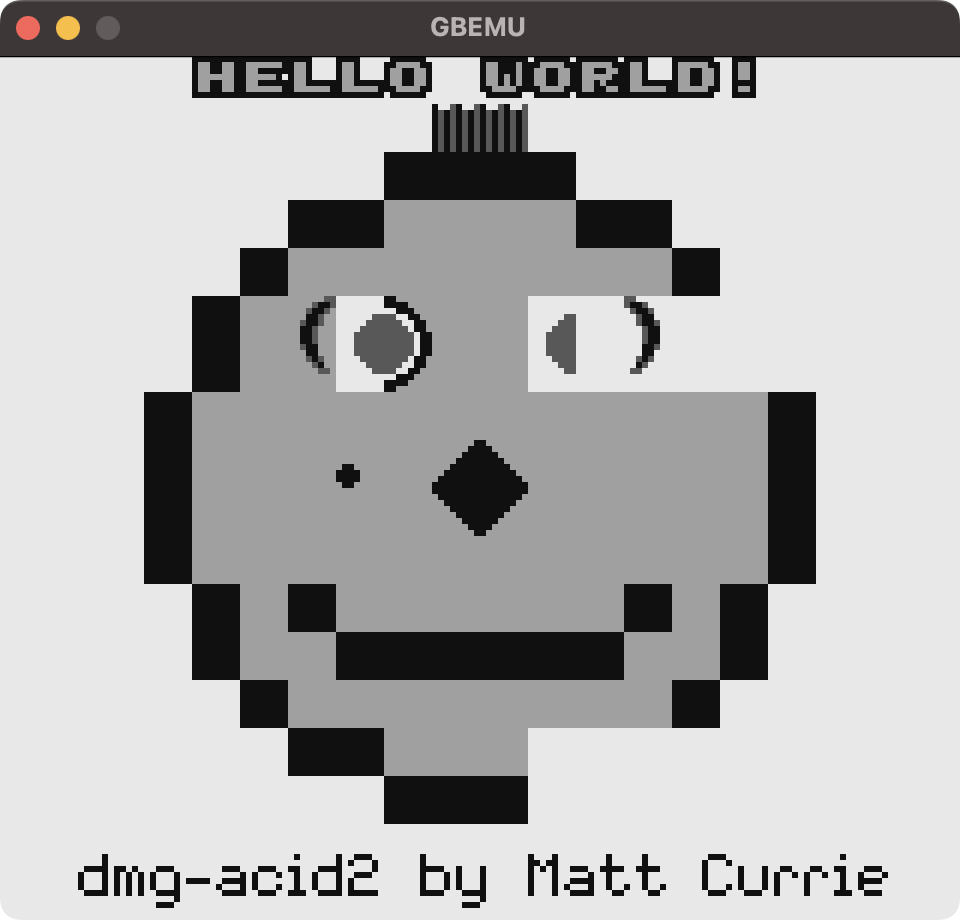
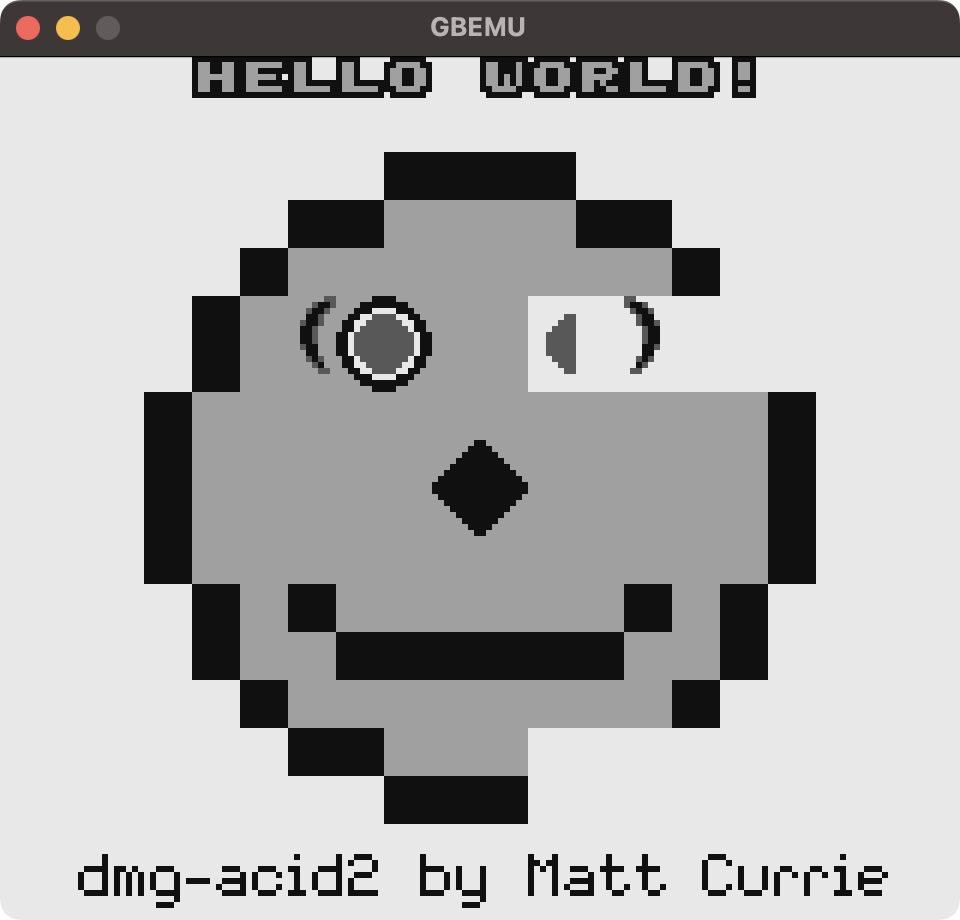
ObjectのPriorityを実装

Changed region(s): [[0.4375, 0.0913, 0.5625, 0.1826], [0.3438, 0.3043, 0.4062, 0.4261], [0.3438, 0.487, 0.375, 0.5478]]

diff --git a/src/ppu.cc b/src/ppu.cc
@@ -1,5 +1,6 @@
 #include "ppu.h"
 
+#include <algorithm>
 #include <cstdint>
 #include <vector>
 
@@ -48,47 +49,49 @@ void Ppu::WriteOam8(std::uint16_t address, std::uint8_t value) {
   }
 }
 
-void Ppu::ScanSingleObject() {
-  // 描画可能なオブジェクトの最大数に達しているなら何もせずサイクルを消費
-  if (objects_on_scan_line_.size() == kMaxNumOfObjectsOnScanline) {
+void Ppu::ScanSingleOamEntry() {
+  // 描画可能なオブジェクトの最大数に達しているなら何もしない
+  if (scanned_oam_entries_.size() == kMaxNumOfObjectsOnScanline) {
     return;
   }
 
-  // OAMからオブジェクトを取得
+  // OAMからエントリを取得
   unsigned elapsed_cycles_in_oam_scan =
       elapsed_cycles_in_frame_ % kScanlineDuration;
   ASSERT(elapsed_cycles_in_oam_scan < kOamScanDuration,
          "This function must be called within OAM Scan.");
-  int object_index = elapsed_cycles_in_oam_scan / 2;
-  Object object;
-  object.y_pos = oam_.at(object_index * 4);
-  object.x_pos = oam_.at(object_index * 4 + 1);
-  object.tile_index = oam_.at(object_index * 4 + 2);
-  object.attributes = oam_.at(object_index * 4 + 3);
+  int entry_index = elapsed_cycles_in_oam_scan / 2;
+  OamEntry entry;
+  entry.y_pos = oam_.at(entry_index * 4);
+  entry.x_pos = oam_.at(entry_index * 4 + 1);
+  entry.tile_index = oam_.at(entry_index * 4 + 2);
+  entry.attributes = oam_.at(entry_index * 4 + 3);
 
-  // オブジェクトがスキャンライン上にあるならバッファに追加
-  if (object.IsOnScanline(ly_, lcdc_.GetCurrentObjectSize())) {
-    objects_on_scan_line_.push(object);
+  // エントリが表すオブジェクトがスキャンライン上にあるならバッファに追加
+  if (entry.IsOnScanline(ly_, lcdc_.GetCurrentObjectSize())) {
+    scanned_oam_entries_.push_back(entry);
   }
 }
 
 void Ppu::WriteCurrentLineToBuffer() {
+  std::array<unsigned, lcd::kWidth> background_color_ids{};
   if (lcdc_.IsBackgroundEnabled()) {
-    WriteBackgroundOnCurrentLine();
+    WriteBackgroundOnCurrentLine(background_color_ids);
   }
 
+  std::array<unsigned, lcd::kWidth> window_color_ids{};
   if (lcdc_.IsWindowEnabled()) {
-    WriteWindowOnCurrentLine();
+    // WriteWindowOnCurrentLine(window_color_ids);
   }
 
+  std::array<unsigned, lcd::kWidth> objects_color_ids{};
+  std::array<const OamEntry*, lcd::kWidth> oam_entries{};
   if (lcdc_.IsObjectEnabled()) {
-    WriteObjectsOnCurrentLine();
-  } else {
-    // スキャンしたオブジェクトをクリア
-    while (!objects_on_scan_line_.empty()) {
-      objects_on_scan_line_.pop();
-    }
+    WriteObjectsOnCurrentLine(objects_color_ids, oam_entries);
   }
+
+  MergeLinesOfEachLayer(background_color_ids, window_color_ids,
+                        objects_color_ids, oam_entries, buffer_.at(ly_));
 }
 
 // サイクル数はM-cycle単位（＝4の倍数のT-cycle）でしか渡されず、
@@ -114,7 +117,7 @@ unsigned Ppu::Step() {
   // モード固有の処理を行い、消費したサイクル数を求める
   switch (ppu_mode_) {
     case PpuMode::kOamScan:
-      ScanSingleObject();
+      ScanSingleOamEntry();
       elapsed = 2;
       break;
     case PpuMode::kDrawingPixels: {
@@ -122,6 +125,7 @@ unsigned Ppu::Step() {
           elapsed_cycles_in_frame_ % kScanlineDuration;
       if (elapsed_cycles_in_line == kOamScanDuration) {
         WriteCurrentLineToBuffer();
+        scanned_oam_entries_.clear();
       }
       elapsed = 1;
       break;
@@ -235,10 +239,41 @@ std::array<unsigned, Ppu::kTileSize> Ppu::DecodeTileRow(
   return result;
 }
 
-void Ppu::WriteBackgroundOnCurrentLine() {
-  // 書き込み先のバッファの行
-  GbLcdPixelRow& line = buffer_.at(ly_);
+void Ppu::MergeLinesOfEachLayer(
+    const std::array<unsigned, lcd::kWidth>& background_color_ids,
+    const std::array<unsigned, lcd::kWidth>& window_color_ids,
+    const std::array<unsigned, lcd::kWidth>& object_color_ids,
+    const std::array<const OamEntry*, lcd::kWidth>& oam_entries,
+    GbLcdPixelRow& merged) {
+  for (int i = 0; i < lcd::kWidth; i++) {
+    lcd::GbLcdColor& dst = merged.at(i);
+    dst = lcd::GbLcdColor::kWhite;
 
+    // Backgroundの描画
+    if (lcdc_.IsBackgroundEnabled()) {
+      dst = GetGbLcdColor(background_color_ids[i], bgp_);
+    }
+
+    // Objectの描画
+    if (lcdc_.IsObjectEnabled() && oam_entries[i] != nullptr &&
+        object_color_ids[i] != 0) {
+      const OamEntry& entry = *oam_entries[i];
+      bool is_front = entry.GetPriority() == OamEntry::Priority::kFront;
+      bool background_overlay =
+          lcdc_.IsBackgroundEnabled() && background_color_ids[i] != 0;
+      bool window_overlay = lcdc_.IsWindowEnabled() && window_color_ids[i] != 0;
+      if (is_front || (!background_overlay && !window_overlay)) {
+        OamEntry::GbPalette palette = entry.GetGbPalette();
+        std::uint8_t obp =
+            palette == OamEntry::GbPalette::kObp0 ? obp0_ : obp1_;
+        dst = GetGbLcdColor(object_color_ids[i], obp);
+      }
+    }
+  }
+}
+
+void Ppu::WriteBackgroundOnCurrentLine(
+    std::array<unsigned, lcd::kWidth>& color_ids) const {
   // スキャンラインと交差するタイルのうち左端のものを取得する
   int tile_pos_y = (scy_ + ly_) / kTileSize;
   int tile_pos_x = scx_ / kTileSize;
@@ -249,8 +284,8 @@ void Ppu::WriteBackgroundOnCurrentLine() {
   const std::uint8_t* tile =
       GetTileFromTileMap(tile_pos_x, tile_pos_y, area, mode);
 
-  // 左から右にタイルマップを移動しながら、スキャンラインと交差するタイルの行を
-  // バッファに書き込む
+  // 左から右にタイルマップを移動しながら、
+  // スキャンラインと交差するタイルの行を配列に書き込む
   int pos_in_line = 0;
   for (int i = 0; i < 21; i++) {
     int col_start = i == 0 ? tile_col_offset : 0;
@@ -258,59 +293,56 @@ void Ppu::WriteBackgroundOnCurrentLine() {
     std::array<unsigned, kTileSize> tile_row =
         DecodeTileRow(tile, tile_row_offset);
     for (int j = col_start; j < col_end; j++) {
-      lcd::GbLcdColor color = GetGbLcdColor(tile_row[j], bgp_);
-      line.at(pos_in_line++) = color;
+      color_ids.at(pos_in_line++) = tile_row[j];
     }
     tile_pos_x = (tile_pos_x + 1) % 32;
     tile = GetTileFromTileMap(tile_pos_x, tile_pos_y, area, mode);
   }
 }
 
-void Ppu::WriteWindowOnCurrentLine() {
-  // do something
-}
-
-void Ppu::WriteObjectsOnCurrentLine() {
-  while (!objects_on_scan_line_.empty()) {
-    const Object& object = objects_on_scan_line_.top();
-    WriteSingleObjectOnCurrentLine(object);
-    objects_on_scan_line_.pop();
+void Ppu::WriteObjectsOnCurrentLine(
+    std::array<unsigned, lcd::kWidth>& color_ids,
+    std::array<const OamEntry*, lcd::kWidth>& oam_entries) {
+  // X座標の小さいものを前面に描画するために、X座標の大きいものを先に描画する
+  std::stable_sort(scanned_oam_entries_.begin(), scanned_oam_entries_.end());
+  for (auto i = scanned_oam_entries_.rbegin(), e = scanned_oam_entries_.rend();
+       i != e; i++) {
+    WriteSingleObjectOnCurrentLine(*i, color_ids, oam_entries);
   }
 }
 
-void Ppu::WriteSingleObjectOnCurrentLine(const Object& object) {
-  GbLcdPixelRow& line = buffer_.at(ly_);
-  Object::GbPalette palette = object.GetGbPalette();
-  std::uint8_t obp = palette == Object::GbPalette::kObp0 ? obp0_ : obp1_;
+void Ppu::WriteSingleObjectOnCurrentLine(
+    const OamEntry& entry, std::array<unsigned, lcd::kWidth>& color_ids,
+    std::array<const OamEntry*, lcd::kWidth>& oam_entries) const {
   // TODO: Priorityの実装
 
   // 描画すべき行データを取得
-  int lcd_x = object.x_pos - 8;
-  int lcd_y = object.y_pos - 16;
+  int lcd_x = entry.x_pos - 8;
+  int lcd_y = entry.y_pos - 16;
   int lcd_y_offset = ly_ - lcd_y;
   int tile_row_offset =
-      object.IsYFlip() ? (lcdc_.GetCurrentObjectHeight() - 1 - lcd_y_offset)
-                       : lcd_y_offset;
+      entry.IsYFlip() ? (lcdc_.GetCurrentObjectHeight() - 1 - lcd_y_offset)
+                      : lcd_y_offset;
   int upper_tile_index = lcdc_.GetCurrentObjectSize() == ObjectSize::kDouble
-                             ? object.tile_index & 0xFE
-                             : object.tile_index;
+                             ? entry.tile_index & 0xFE
+                             : entry.tile_index;
   int tile_data_address = upper_tile_index * 16;
-  std::uint8_t* tile = &vram_.at(tile_data_address);
+  const std::uint8_t* tile = &vram_.at(tile_data_address);
   std::array<unsigned, kTileSize> tile_row =
       DecodeTileRow(tile, tile_row_offset);
   for (int i = 0; i < 8; i++) {
     // x-flipしているなら右端から、していないなら左端から描画する
-    unsigned color_id = object.IsXFlip() ? tile_row[7 - i] : tile_row[i];
+    unsigned color_id = entry.IsXFlip() ? tile_row[7 - i] : tile_row[i];
     if (color_id == 0) {
       continue;
     }
-    lcd::GbLcdColor color = GetGbLcdColor(color_id, obp);
+    color_ids.at(lcd_x + i) = color_id;
+    oam_entries.at(lcd_x + i) = &entry;
     // TODO: object.x_pos < 8 のケースの対処
-    line.at(lcd_x + i) = color;
   }
 }
 
-bool Ppu::Object::IsOnScanline(std::uint8_t ly, Ppu::ObjectSize size) const {
+bool Ppu::OamEntry::IsOnScanline(std::uint8_t ly, Ppu::ObjectSize size) const {
   unsigned height = size == ObjectSize::kSingle ? 8 : 16;
   return (x_pos > 0) && (ly + 16 >= y_pos) && (ly + 16 < y_pos + height);
 }

diff --git a/src/ppu.h b/src/ppu.h
@@ -3,7 +3,6 @@
 
 #include <array>
 #include <cstdint>
-#include <queue>
 #include <vector>
 
 #include "interrupt.h"
@@ -212,7 +211,7 @@ class Ppu {
   };
 
   // OAMのオブジェクトを1つスキャンする。
-  void ScanSingleObject();
+  void ScanSingleOamEntry();
 
   // 現在の行をバッファに書き込む
   void WriteCurrentLineToBuffer();
@@ -282,14 +281,14 @@ class Ppu {
   // high(true)になったときセットされる。
   bool stat_interrupt_wire_{false};
 
-  struct Object {
+  struct OamEntry {
     std::uint8_t y_pos;
     std::uint8_t x_pos;
     std::uint8_t tile_index;
     std::uint8_t attributes;
 
     // 大小比較
-    bool operator>(const Object& rhs) const { return x_pos > rhs.x_pos; }
+    bool operator<(const OamEntry& rhs) const { return x_pos < rhs.x_pos; }
     // 指定のスキャンライン上で描画の対象となるか判定する
     bool IsOnScanline(std::uint8_t ly, ObjectSize size) const;
 
@@ -310,23 +309,36 @@ class Ppu {
   };
 
   // OAM Scanで使用するバッファ。
-  // 現在のスキャンライン上で描画の対象となるオブジェクトを
-  // X座標の小さい順に格納する。
-  std::priority_queue<Object, std::vector<Object>, std::greater<Object>>
-      objects_on_scan_line_{};
+  // 現在のスキャンライン上で描画の対象となるオブジェクトをX座標の小さい順に格納する。
+  std::vector<OamEntry> scanned_oam_entries_{};
 
   // スキャンライン上に同時に描画可能なオブジェクトの最大数
   static constexpr auto kMaxNumOfObjectsOnScanline = 10;
 
-  // Backgroundをスキャンライン上に描画する。
-  void WriteBackgroundOnCurrentLine();
-  // Windowをスキャンライン上に描画する。
-  void WriteWindowOnCurrentLine();
-  // OAM Scanでバッファに記録した全オブジェクトをスキャンライン上に描画する。
-  void WriteObjectsOnCurrentLine();
-
-  // 指定のオブジェクトをスキャンライン上に描画する。
-  void WriteSingleObjectOnCurrentLine(const Object& object);
+  // スキャンラインに沿ってBackgroundレイヤの各ピクセルのカラーIDを配列に書き出す。
+  void WriteBackgroundOnCurrentLine(
+      std::array<unsigned, lcd::kWidth>& color_ids) const;
+  // スキャンラインに沿ってWindowレイヤの各ピクセルのカラーIDを配列に書き出す。
+  void WriteWindowOnCurrentLine(
+      std::array<unsigned, lcd::kWidth>& color_ids) const;
+  // スキャンラインに沿ってObjectレイヤの各ピクセルのカラーIDとそのピクセルが属する
+  // オブジェクトのOAMエントリを配列に書き出す。
+  // オブジェクトのない部分に対応する配列要素は変化させない。
+  void WriteObjectsOnCurrentLine(
+      std::array<unsigned, lcd::kWidth>& color_ids,
+      std::array<const OamEntry*, lcd::kWidth>& oam_entries);
+  // WriteObjectsOnCurrentLineのヘルパ。
+  // 1つのOAMエントリに対応するピクセルの情報を配列に書き出す。
+  void WriteSingleObjectOnCurrentLine(
+      const OamEntry& entry, std::array<unsigned, lcd::kWidth>& color_ids,
+      std::array<const OamEntry*, lcd::kWidth>& oam_entries) const;
+  // スキャンラインに沿って抽出した各レイヤをマージしてLCDの1行として書き出す
+  void MergeLinesOfEachLayer(
+      const std::array<unsigned, lcd::kWidth>& background_color_ids,
+      const std::array<unsigned, lcd::kWidth>& window_color_ids,
+      const std::array<unsigned, lcd::kWidth>& object_color_ids,
+      const std::array<const OamEntry*, lcd::kWidth>& oam_entries,
+      GbLcdPixelRow& merged);
 };
 
 }  // namespace gbemu
